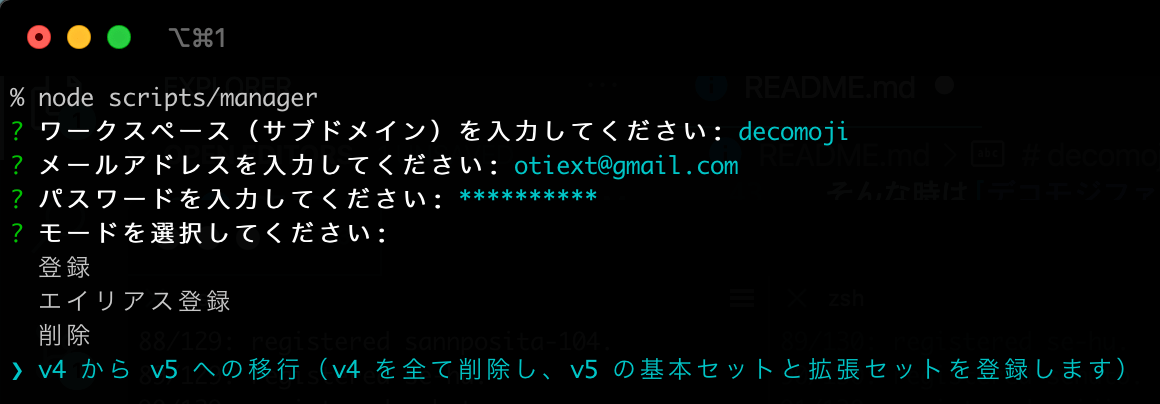
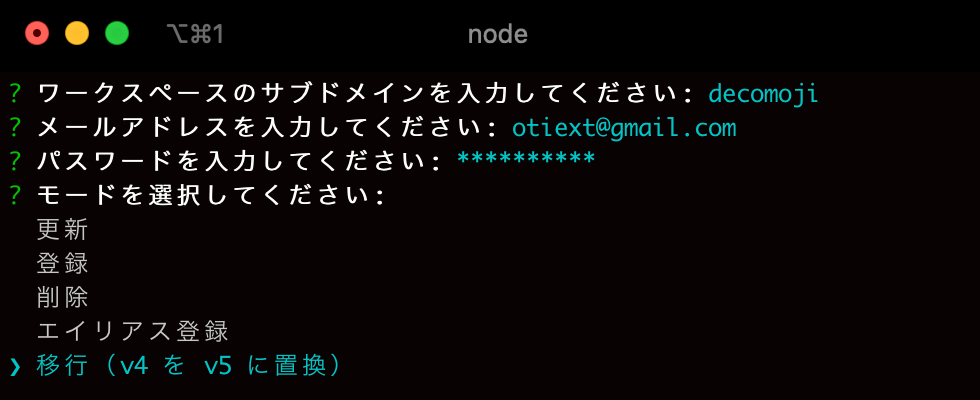
fix(docs): ss_migration.png を差し替えた

diff --git a/README.md b/README.md
@@ -71,7 +71,7 @@ node scripts/manager
 
 ### v4 から v5 への移行
 
-![](docs/images/ss_migration.png)
+<img src="docs/images/ss_migration.png" width="490" height="200" loading="lazy">
 
 モード選択で「移行（v4 を v5 に置換）」を選択すると、v4 時代の古いデコモジを削除してから v5 の新しいデコモジを登録します。また、古いファイル名から新しいファイル名へのエイリアスも登録されます。
 
